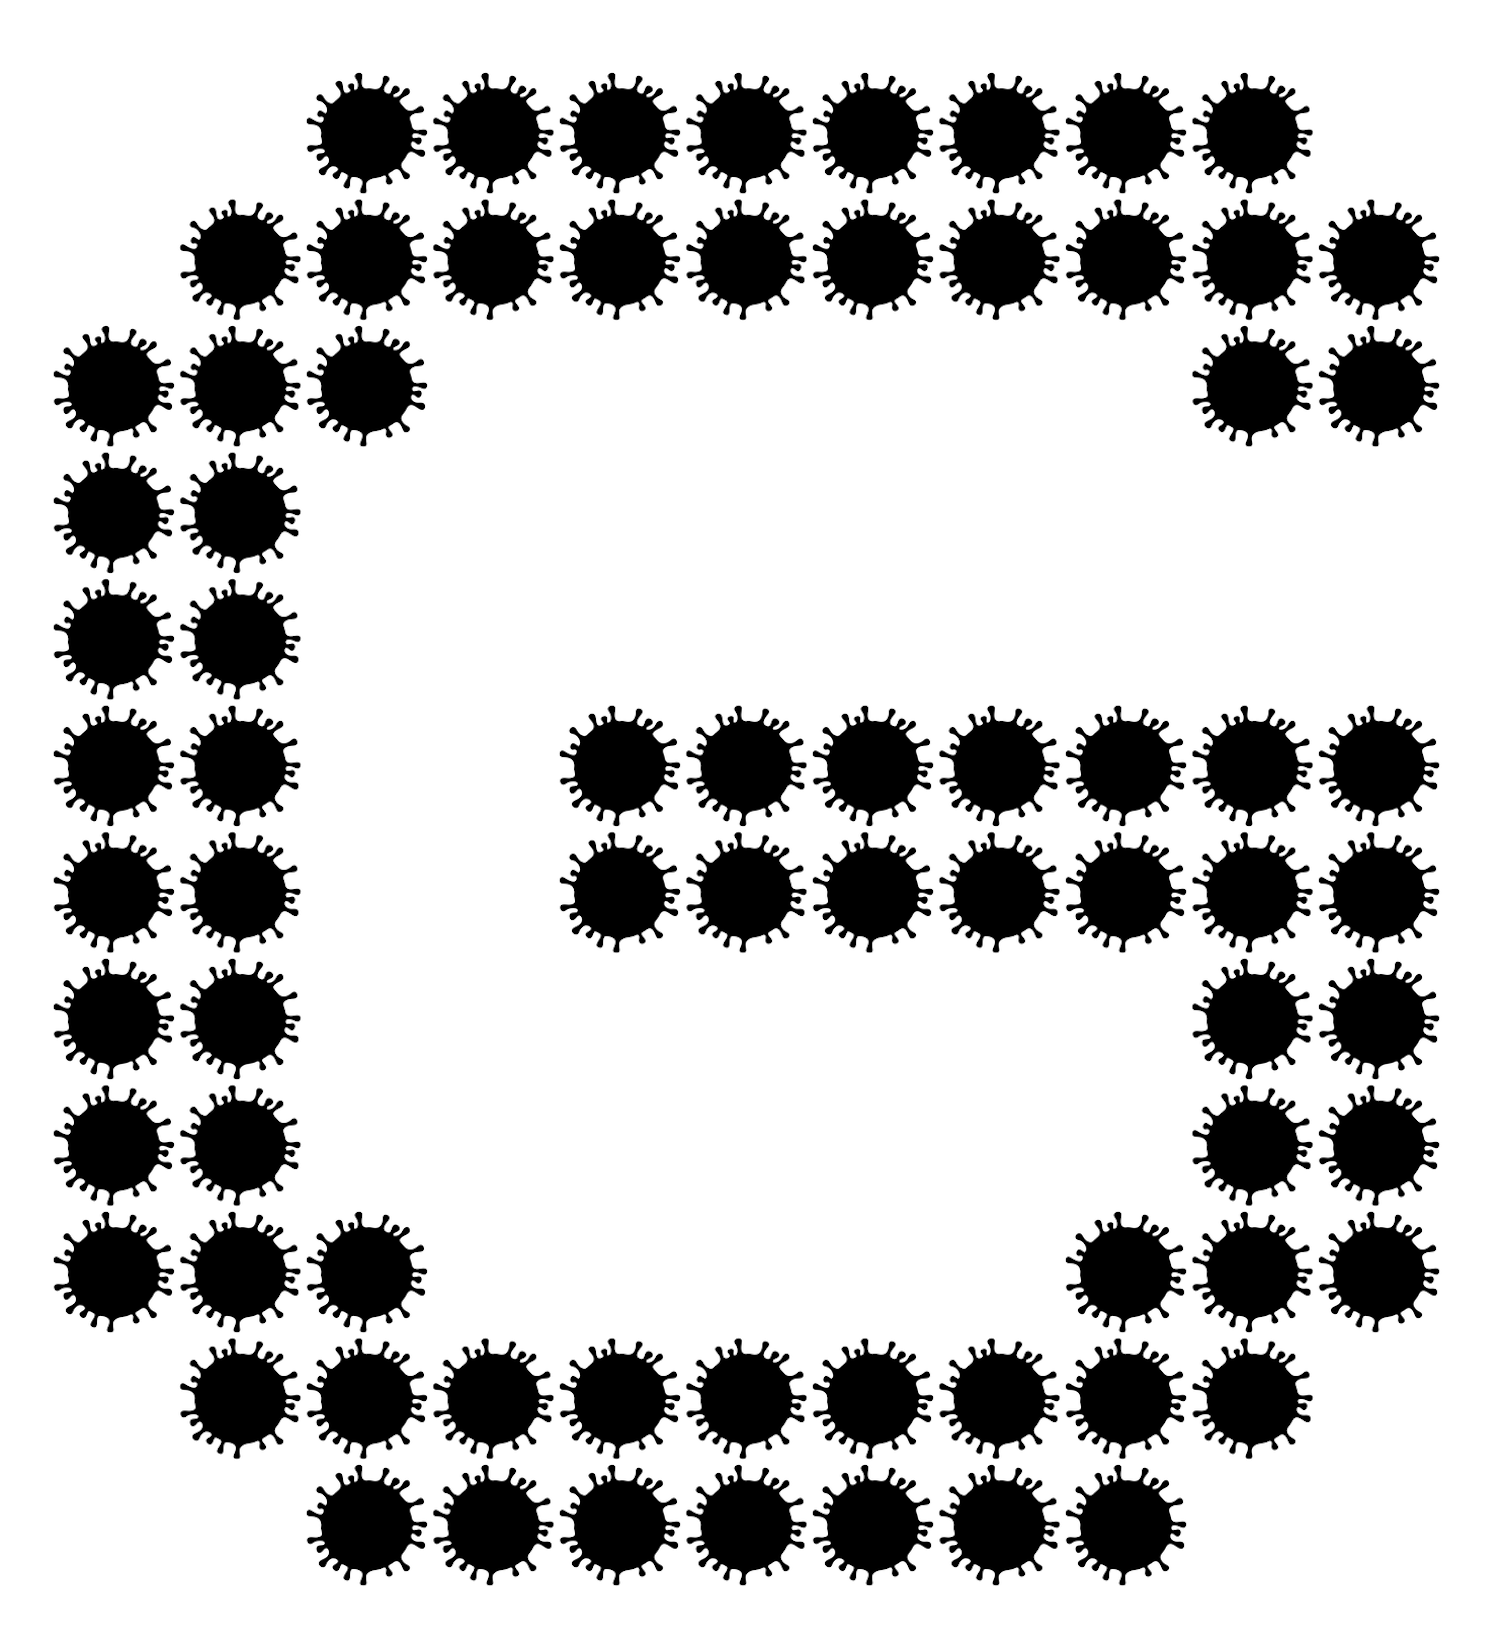
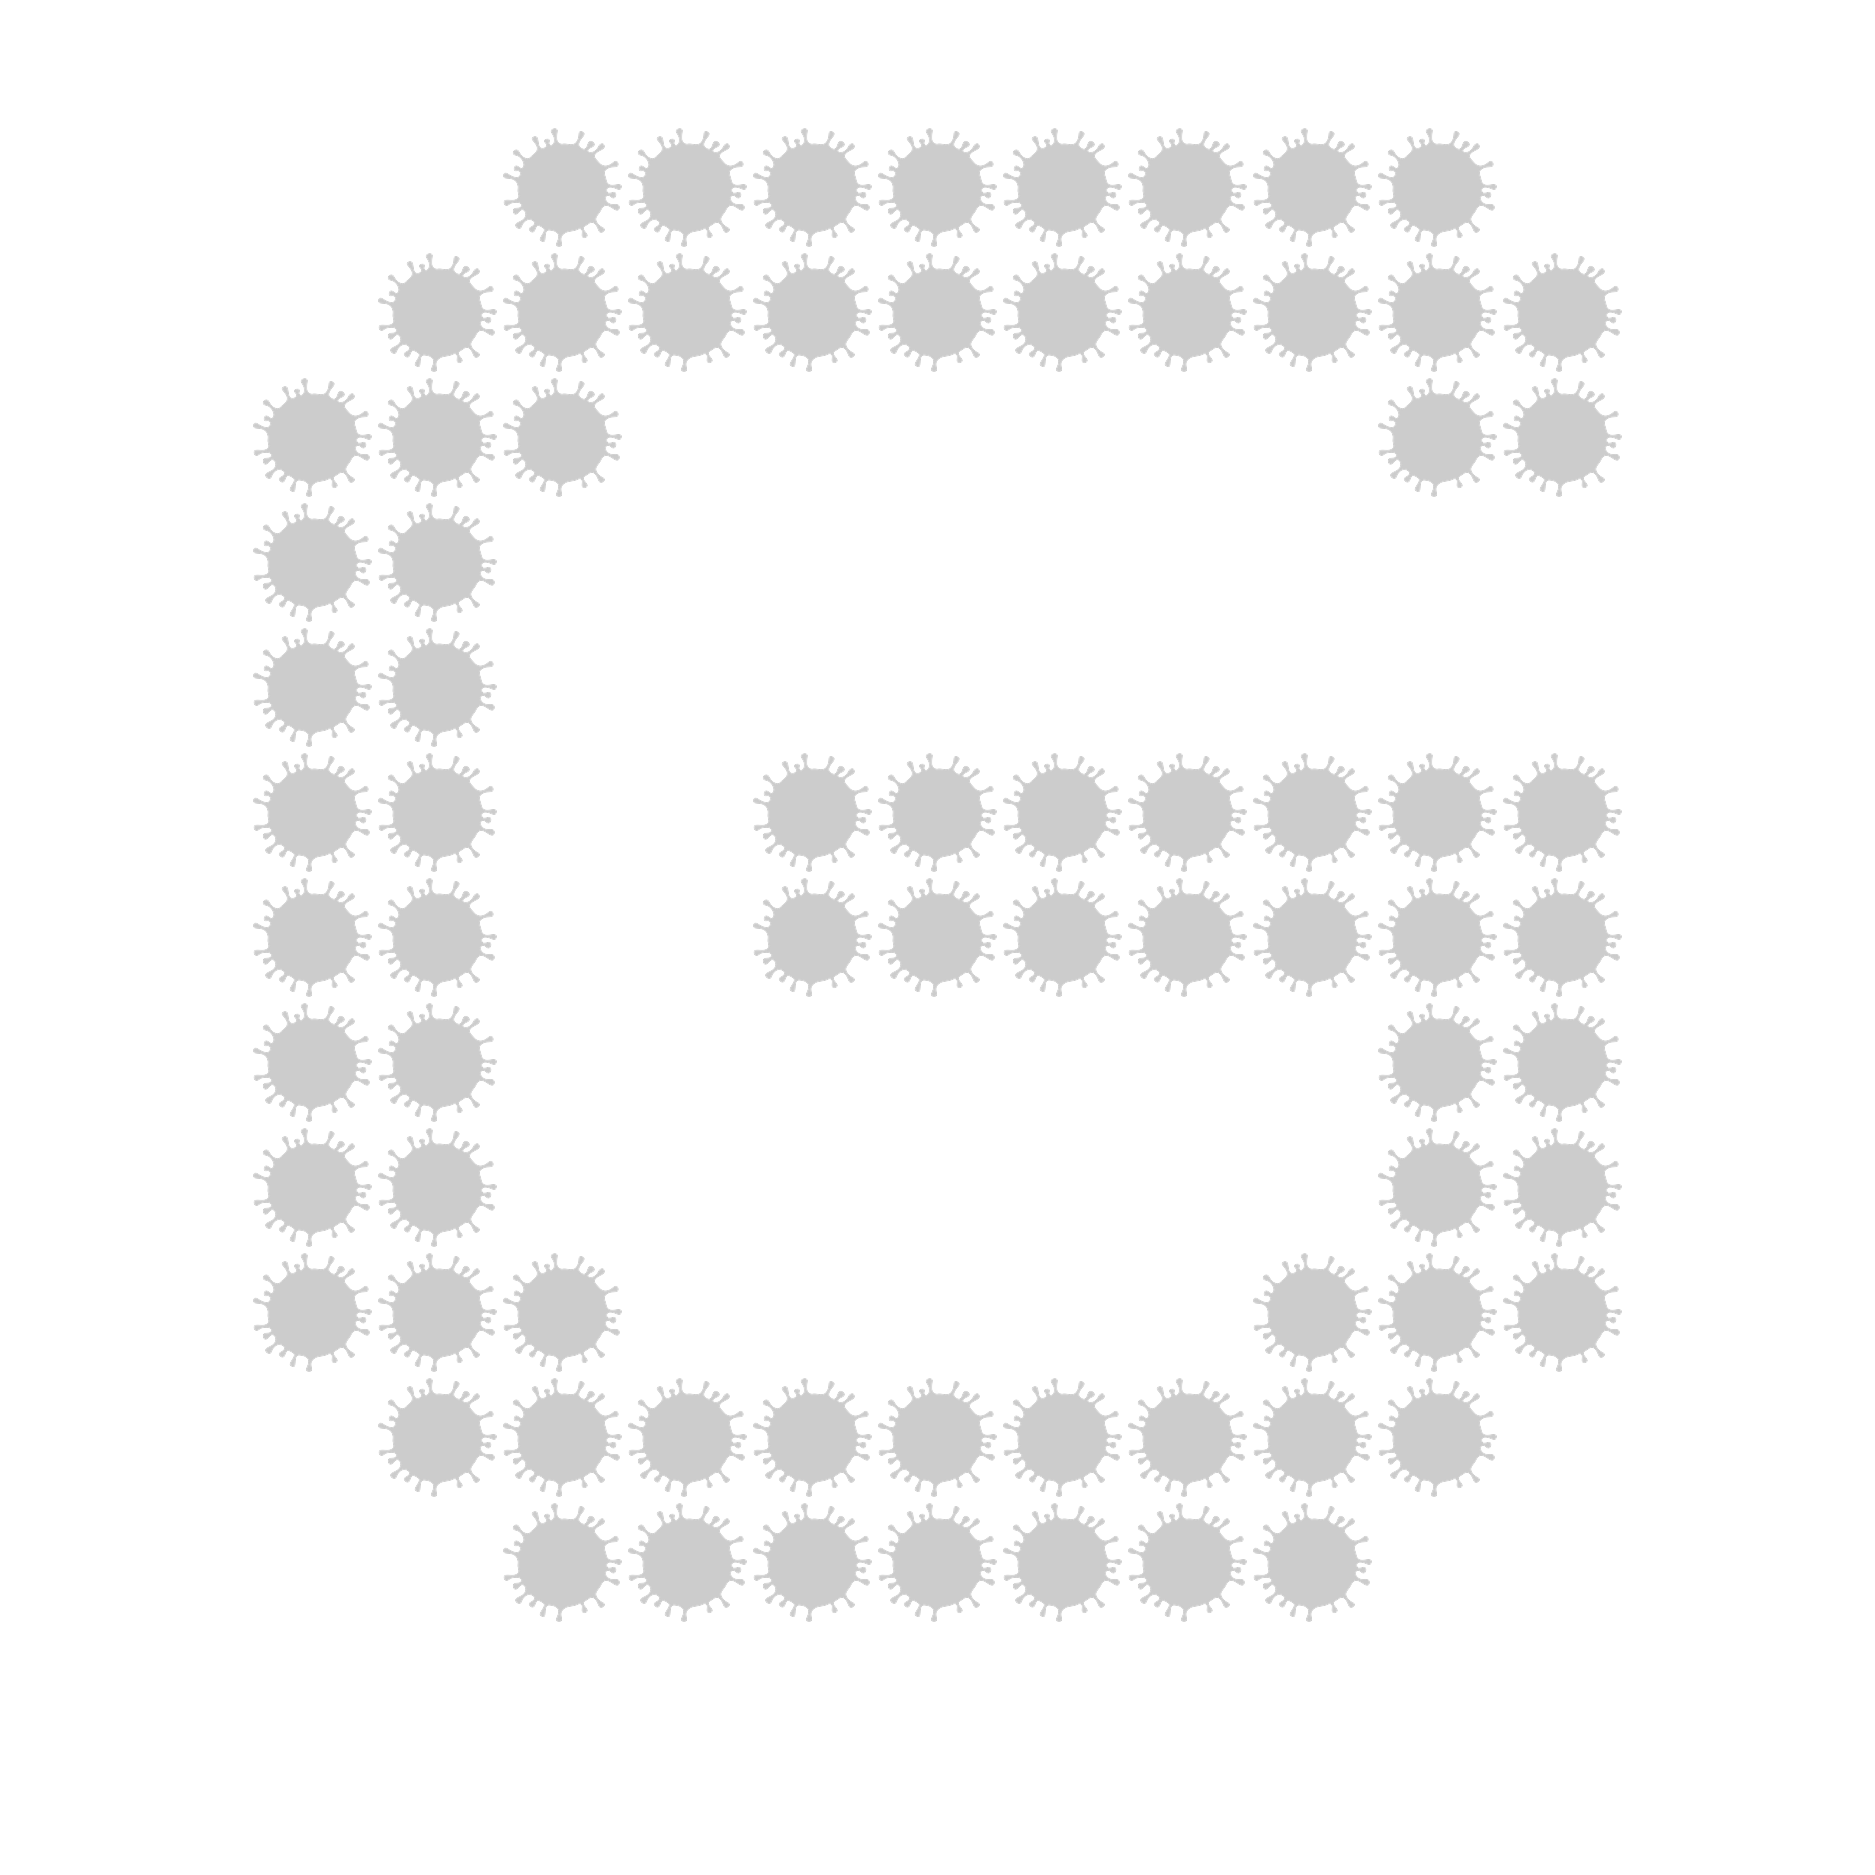
size & color for letters

diff --git a/generator/letter_from_font/generate_later_from_font.py b/generator/letter_from_font/generate_later_from_font.py
@@ -3,7 +3,7 @@ import math
 from PIL import Image, ImageDraw, ImageFont
 from PIL.ImageFont import ImageFont, truetype
 
-original_size = 25
+original_size = 15
 covid_size = 125
 
 covid = Image.open("covid_alpha.png", "r").convert("RGBA")
@@ -12,16 +12,16 @@ covid = covid.resize((covid_size,covid_size), Image.ANTIALIAS)
 
 
 for letter in ["A", "G", "T", "C"]:
-    im = Image.new('RGB', (original_size*covid_size, original_size*covid_size), (255,255,255))
+    im = Image.new('RGBA', (original_size*covid_size, original_size*covid_size), (255,255,255,0))
     draw = ImageDraw.Draw(im)
 
 
-    _im = Image.open(letter+"25.png")
-    rgb = _im.convert("RGB")
+    _im = Image.open(letter+"25_2.png")
+    rgb = _im.convert("RGBA")
     points = []
-    for n in range(25):
-        for m in range(25):
-            if rgb.getpixel((n,m)) == (0,0,0):
+    for n in range(15):
+        for m in range(15):
+            if rgb.getpixel((n,m)) == (0,0,0,255):
                 points += [(n,m)]
 
     for p in points:
